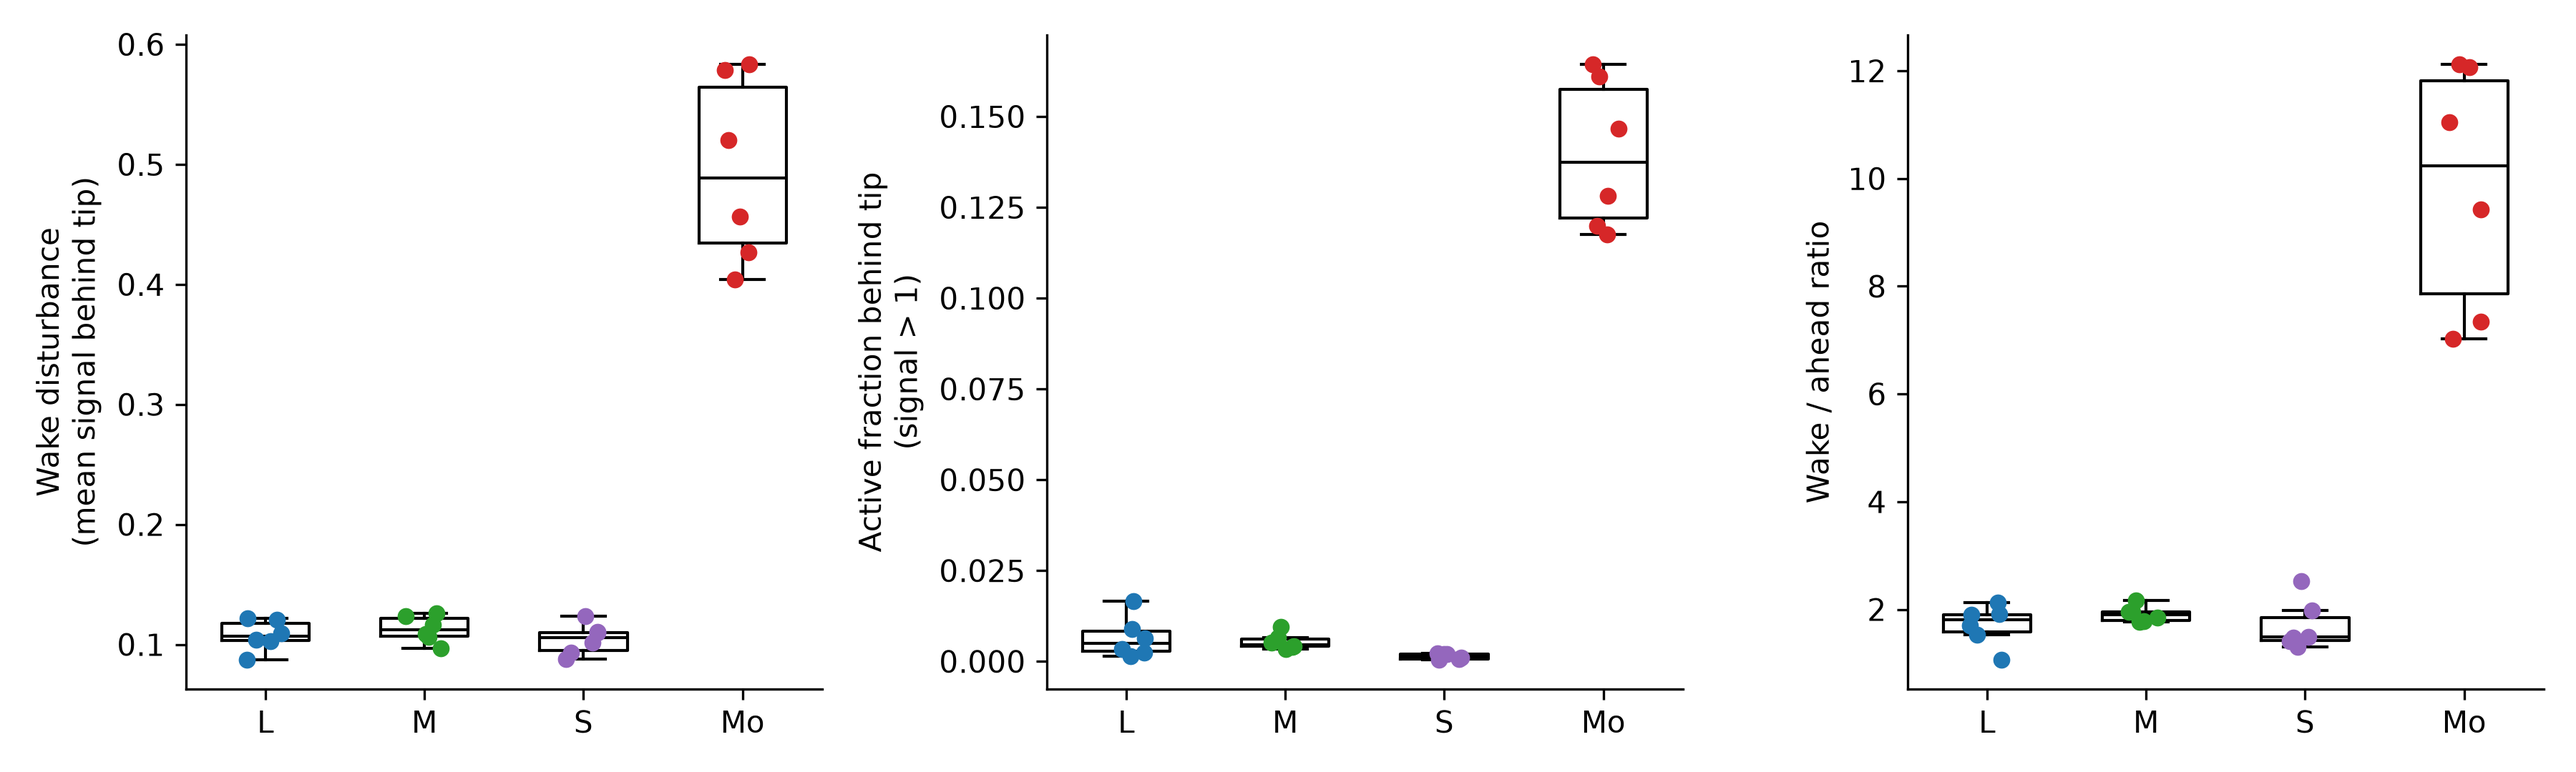
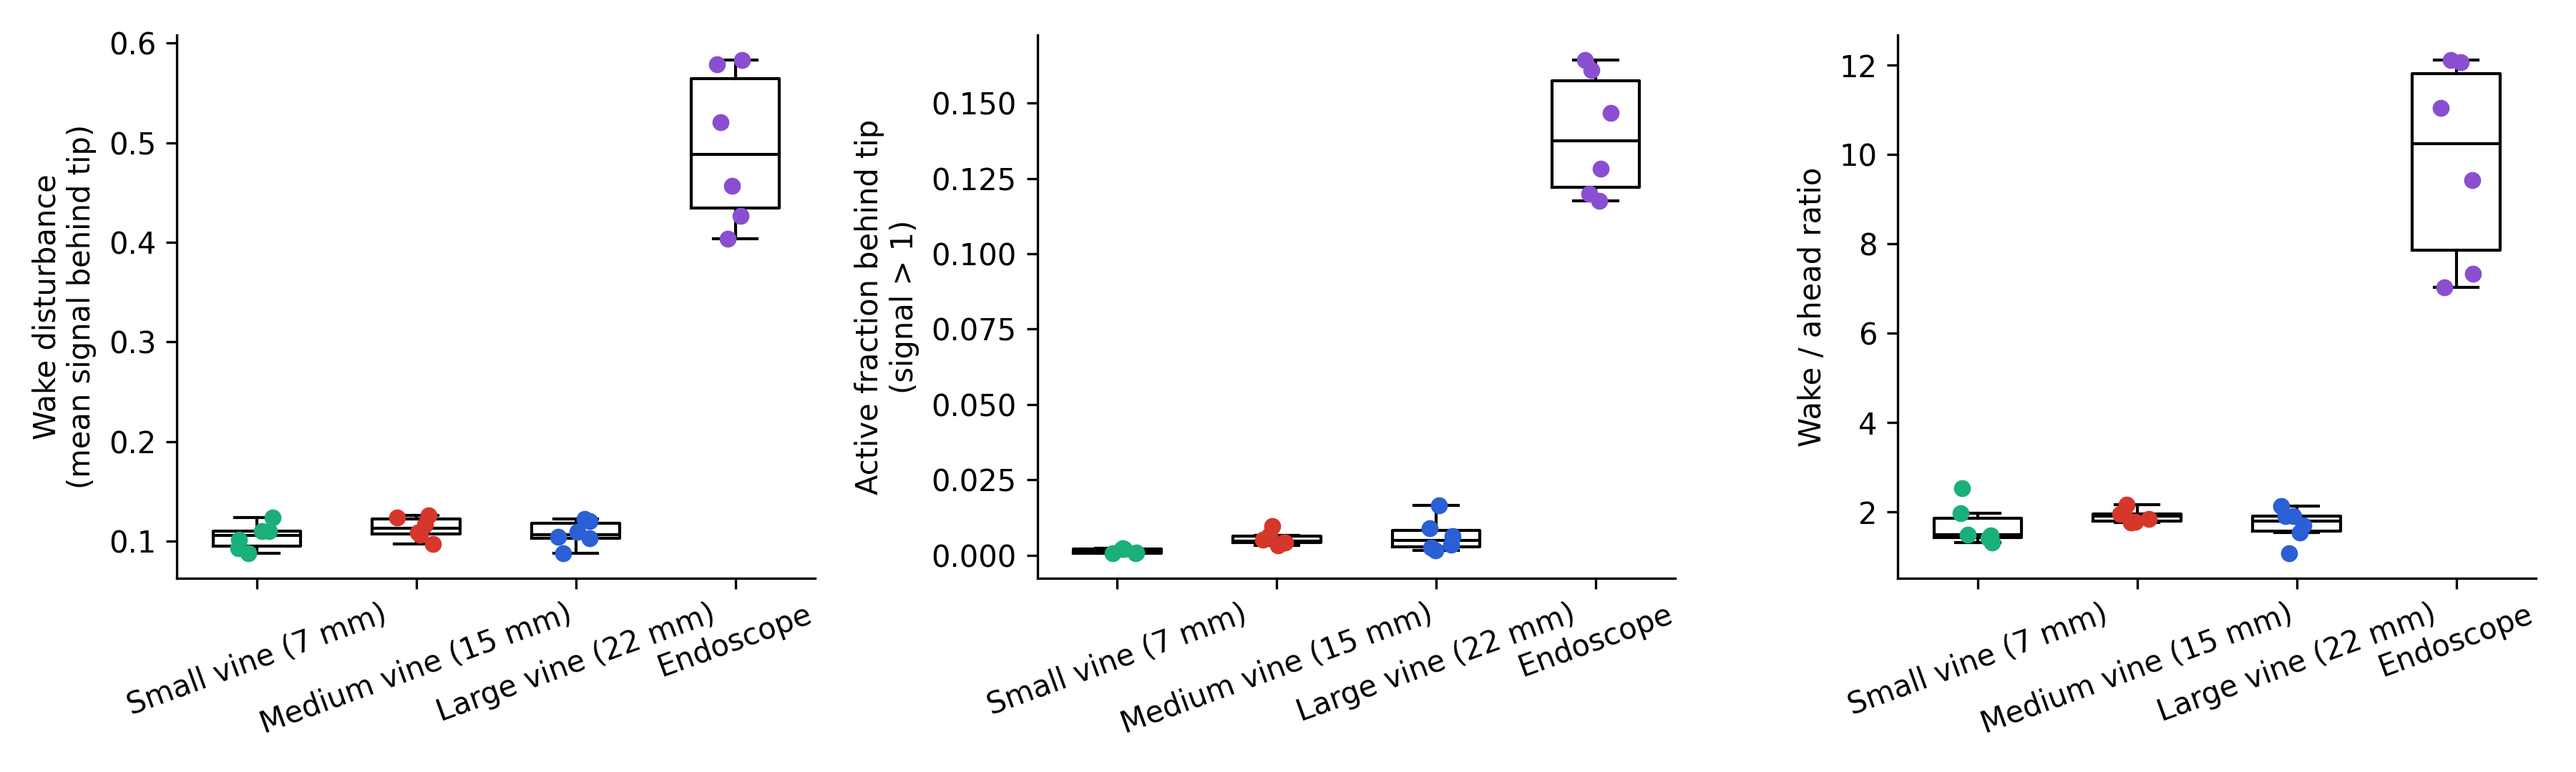
1

diff --git a/kymograph/quantify_wake.py b/kymograph/quantify_wake.py
@@ -20,12 +20,14 @@ Figures
 MATCH = ""              # only videos whose name contains this text ("" = all)
 TRIAL_TABLE = "../ForceAnalysis/test/trial_table_revised.csv"   # only trials listed here (6 per group); "" = all
 RUNS = ("G",)           # run types to include (last letter of the name); R runs: the active side is T, not H
-GROUPS = ("L", "M", "S", "Mo")   # order in the figures; Mo = human operator
 GAP = 5                 # stations (= % path) on each side of the tip left out, so the tip's own motion is not counted
 MIN_DEPTH = 10          # frames count only once the tip is this far in (so a passed region exists)
 ACTIVE_LEVEL = 1.0      # signal level counted as "moving" for wake_active (fixed, the same for every video)
 PROFILE_RANGE = (-80, 30)   # distance from the tip (% path) shown in wake_profile.png; negative = behind (H side)
-COLORS = {"L": "#1f77b4", "M": "#2ca02c", "S": "#9467bd", "Mo": "#d62728"}
+PATH_LENGTH_M = 1.35    # length of the whole centerline (stations 0..n-1) in m, = L_COLON in ForceAnalysis/test
+GROUPS = ("S", "M", "L", "Mo")   # figure order
+NAMES = {"S": "Small vine (7 mm)", "M": "Medium vine (15 mm)", "L": "Large vine (22 mm)", "Mo": "Endoscope"}
+COLORS = {"S": "#1baf7a", "M": "#d6372b", "L": "#2a5fd6", "Mo": "#8a4fd0"}   # as make_test_figures2.py
 # ------------------------------------------------------------------
 import glob
 import os
@@ -71,6 +73,7 @@ def metrics(tip, sig):
     cnt = np.isfinite(vals).sum(0)
     prof = np.where(cnt > 0, np.nansum(vals, 0) / np.maximum(cnt, 1), np.nan)
     d["profile"] = prof
+    d["profile_n"] = st
     return d
 
 
@@ -147,7 +150,7 @@ def plot_metrics(rows, path):
         ax.boxplot(data, widths=0.55, showfliers=False, medianprops=dict(color="k"))
         for i, (g, v) in enumerate(zip(groups, data)):
             ax.scatter(i + 1 + rng.uniform(-0.12, 0.12, len(v)), v, s=22, color=COLORS.get(g, "k"), zorder=3)
-        ax.set_xticks(range(1, len(groups) + 1), groups)
+        ax.set_xticks(range(1, len(groups) + 1), [NAMES[g] for g in groups], rotation=20)
         ax.set_ylabel(lab)
         ax.spines[["top", "right"]].set_visible(False)
     fig.tight_layout()
@@ -158,17 +161,19 @@ def plot_metrics(rows, path):
 def plot_profile(rows, path):
     import matplotlib.pyplot as plt
     rel = np.arange(PROFILE_RANGE[0], PROFILE_RANGE[1] + 1)
+    n = len(rows[0]["profile_n"]) if rows else 100
+    x = rel * PATH_LENGTH_M / n                 # stations -> m
     fig, ax = plt.subplots(figsize=(6, 3.6))
     for g in GROUPS:
         P = np.array([r["profile"] for r in rows if r["group"] == g])
         if not len(P):
             continue
         m, s = np.nanmean(P, 0), np.nanstd(P, 0)
-        ax.plot(rel, m, color=COLORS.get(g, "k"), lw=2, label=f"{g} (n={len(P)})")
-        ax.fill_between(rel, m - s, m + s, color=COLORS.get(g, "k"), alpha=0.18, lw=0)
+        ax.plot(x, m, color=COLORS.get(g, "k"), lw=2, label=NAMES[g])
+        ax.fill_between(x, m - s, m + s, color=COLORS.get(g, "k"), alpha=0.18, lw=0)
     ax.axvline(0, color="0.4", lw=1, ls="--")
-    ax.set_xlabel("Distance from tip (% path)   behind (H) ←  → ahead (T)")
-    ax.set_ylabel("Mean signal")
+    ax.set_xlabel("Distance from tip (m)")
+    ax.set_ylabel("Time-averaged\ncolour-change signal")
     ax.legend(frameon=False)
     ax.spines[["top", "right"]].set_visible(False)
     fig.tight_layout()
